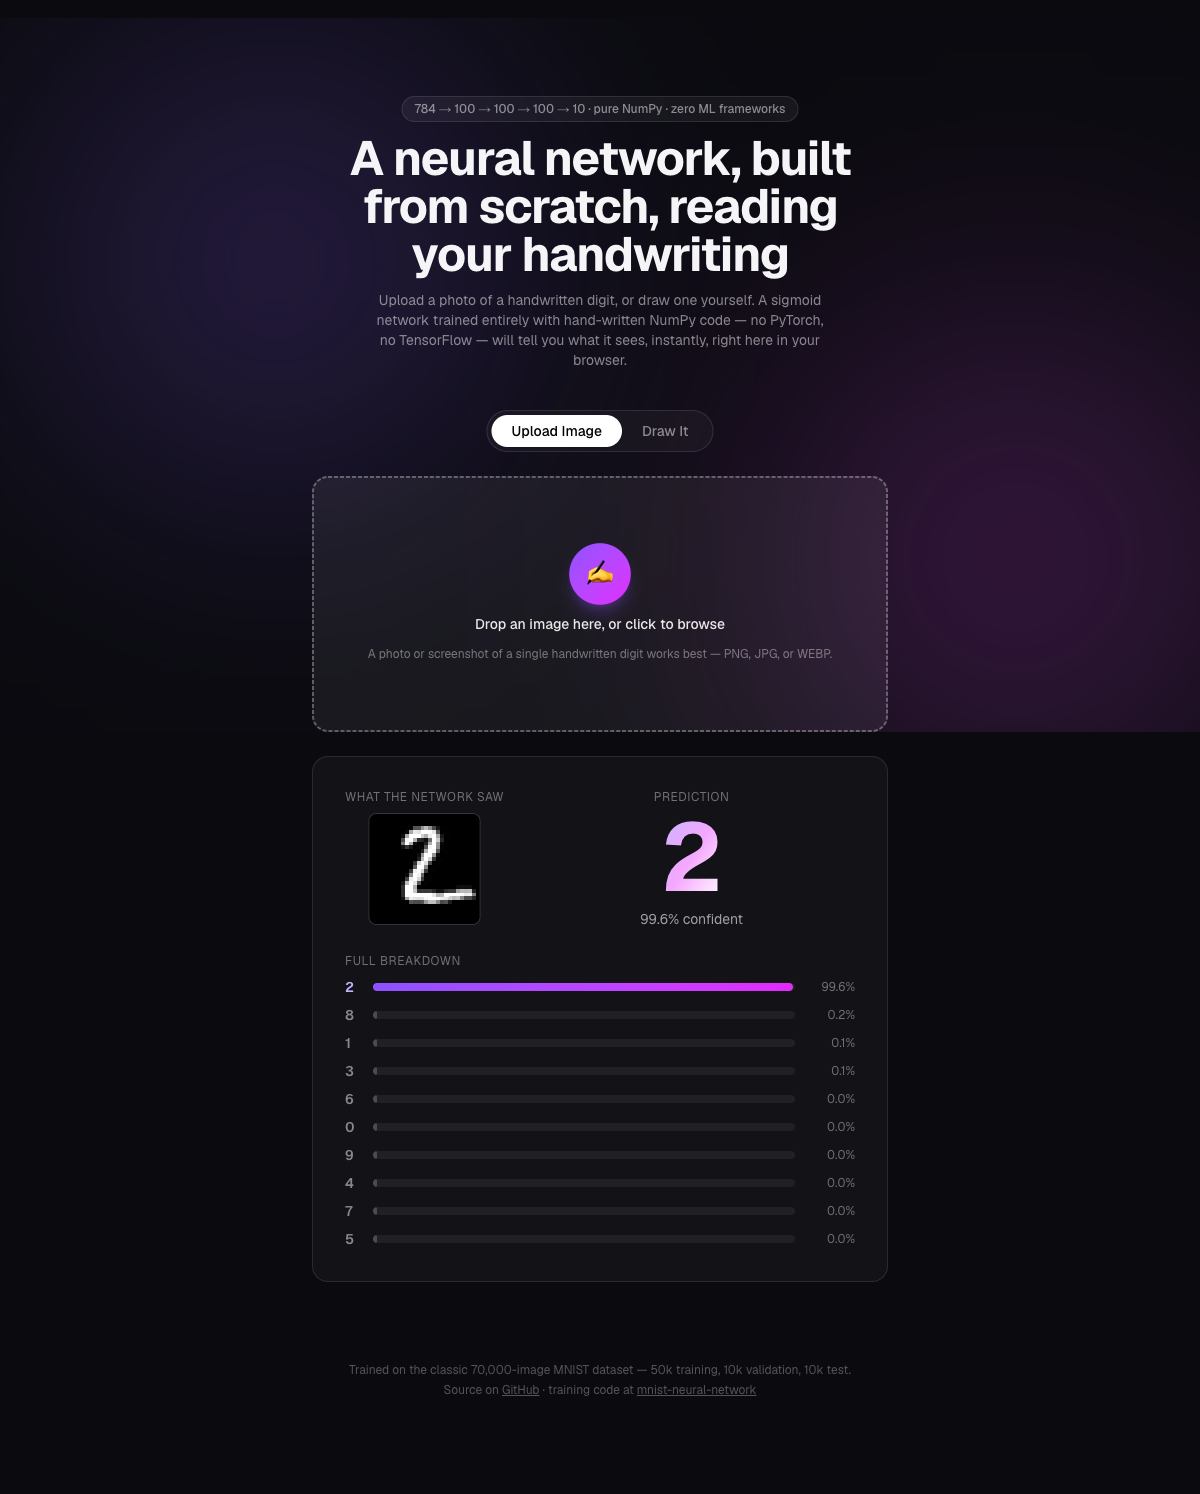
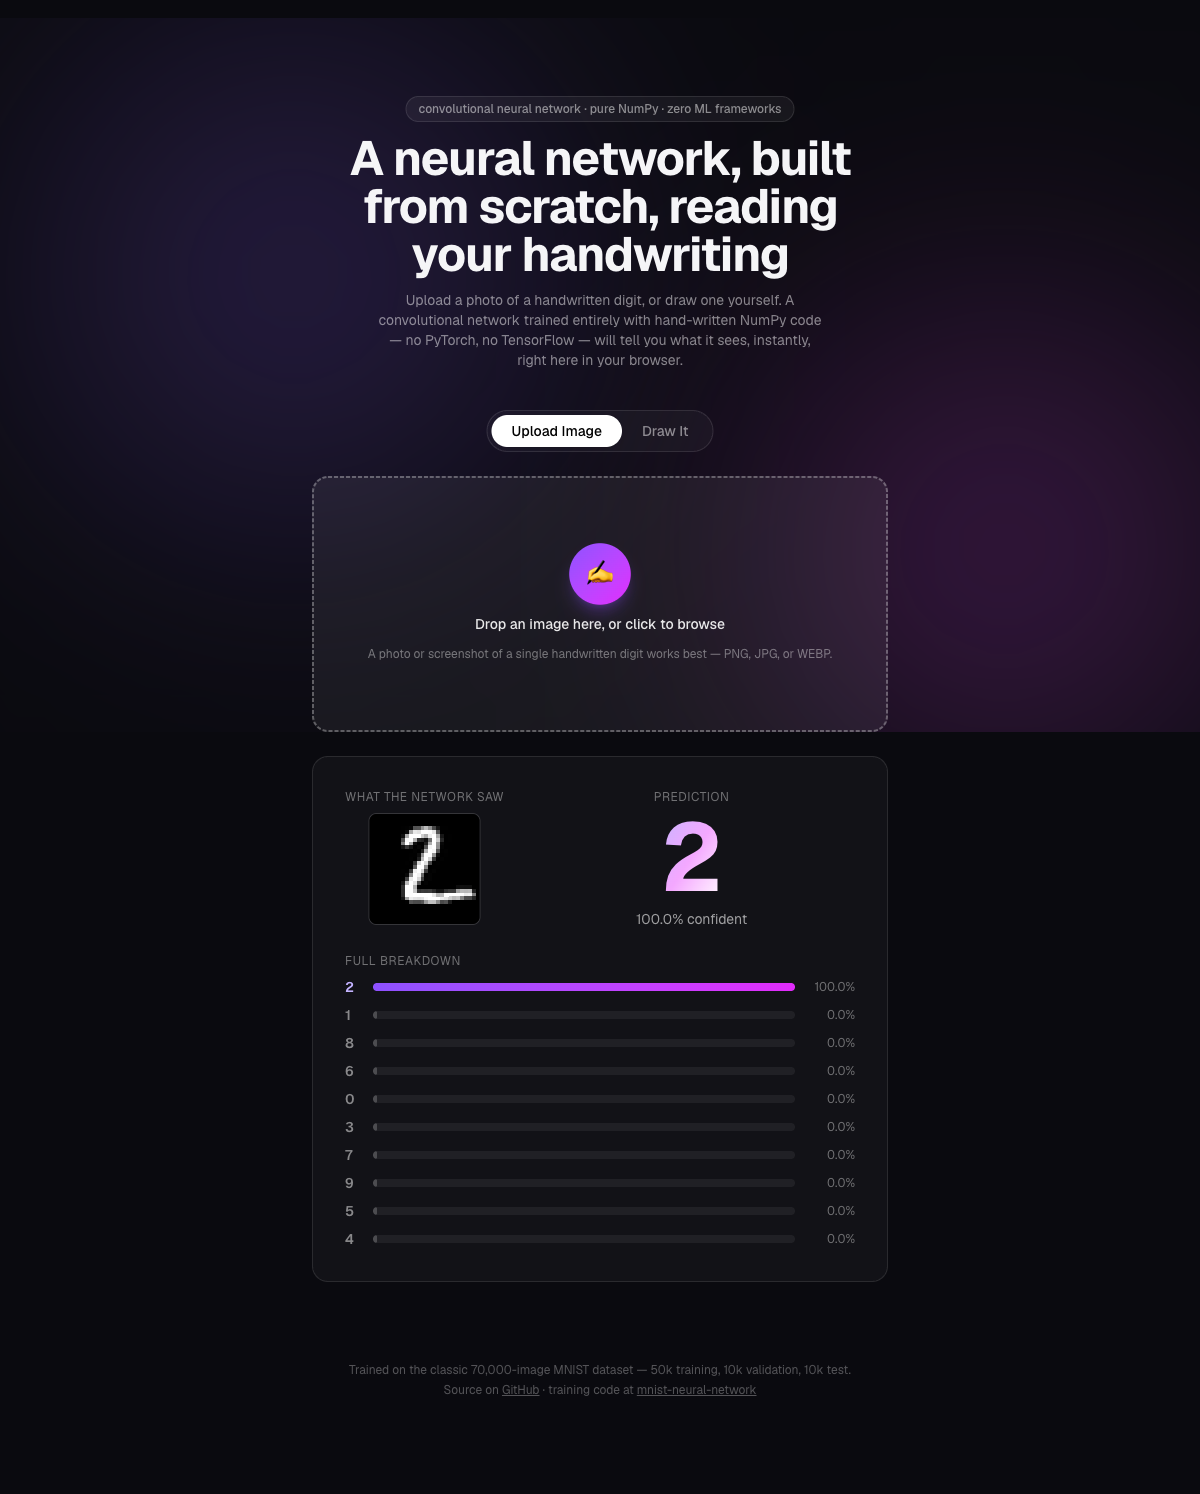
Update README screenshot for the new CNN-powered app

Changed region(s): [[0.3083, 0.1847, 0.6783, 0.2463], [0.37, 0.0616, 0.4625, 0.0924], [0.555, 0.0616, 0.5858, 0.0924]]

diff --git a/README.md b/README.md
@@ -10,7 +10,7 @@ which trains the same network using nothing but NumPy.
 
 **🔗 Try it live: [mnist-digit-recognizer-coral.vercel.app](https://mnist-digit-recognizer-coral.vercel.app)**
 
-![Screenshot of the app correctly identifying a hand-drawn "2" with 99.6% confidence](docs/screenshot.png)
+![Screenshot of the app correctly identifying an uploaded "2" with 100.0% confidence](docs/screenshot.png)
 
 ## How it works
 
